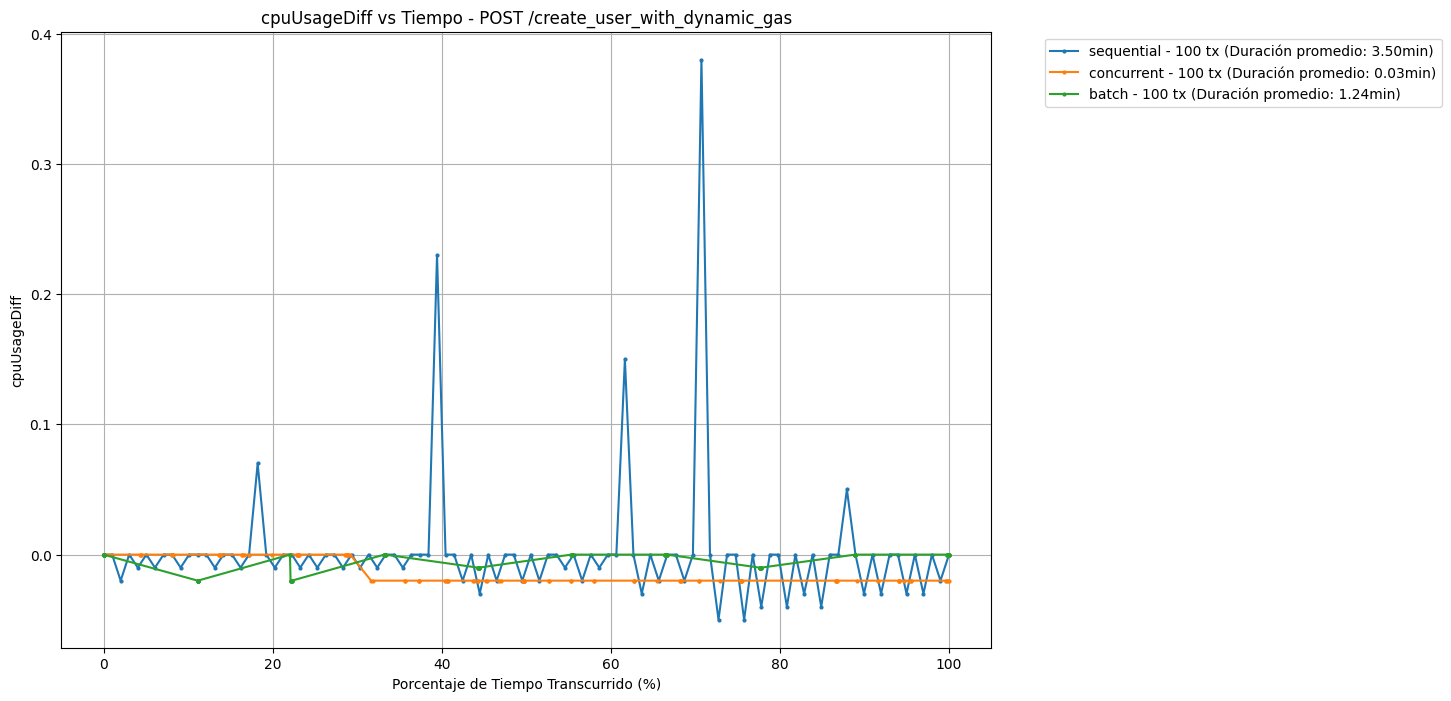
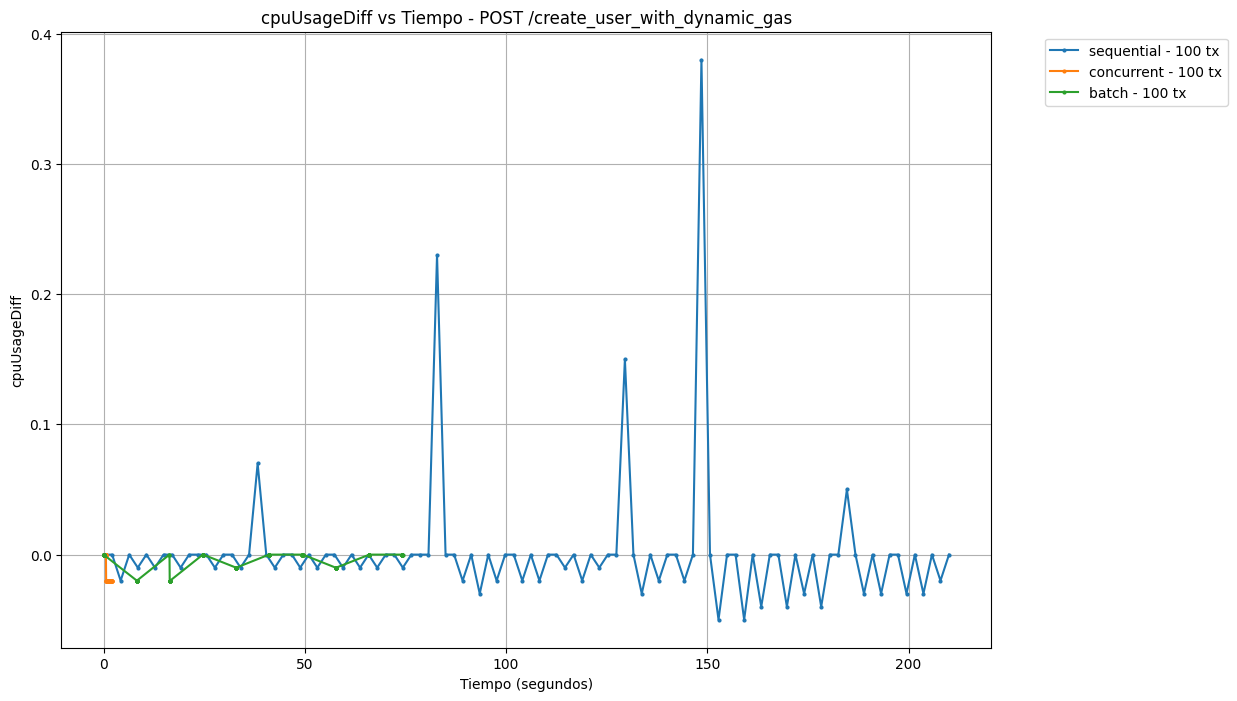
Modifique las etiquetas

diff --git a/API/graphs/graph_maker.py b/API/graphs/graph_maker.py
@@ -190,60 +190,19 @@ def plot_metric_vs_time(data, metric, title, route):
 
     # Plotear cada tipo de test
     for (test_type, total_tx), entries in test_groups.items():
-        # Organizar por grupos para calcular duraciones máximas
-        group_entries = {}
-        max_durations = []
-        
+        # Obtener los timestamps en segundos desde el inicio
+        all_times = []
+        all_metrics = []
         for entry in entries:
-            group_id = entry['groupID']
-            if group_id not in group_entries:
-                group_entries[group_id] = []
-            group_entries[group_id].append(entry)
+            time_seconds = (entry['timestamp'] - entries[0]['timestamp']).total_seconds()
+            all_times.append(time_seconds)
+            all_metrics.append(float(entry[metric]) if entry[metric] else 0.0)
         
-        # Calcular duración máxima para cada grupo
-        for group_data in group_entries.values():
-            if group_data:
-                group_data.sort(key=lambda x: x['timestamp'])
-                start_time = group_data[0]['timestamp']
-                end_time = group_data[-1]['timestamp']
-                duration = (end_time - start_time).total_seconds() / 60  # en minutos
-                max_durations.append(duration)
-        
-        # Calcular duración promedio para este tipo de test
-        avg_duration = mean(max_durations) if max_durations else 1
-        print(f"Duración promedio para {test_type}: {avg_duration:.2f} minutos")
-        
-        # Evitar división por cero
-        if avg_duration == 0:
-            print(f"Advertencia: Duración promedio es cero para {test_type}. Saltando este grupo.")
-            continue  # O establecer avg_duration = 1 para evitar división por cero
-        
-        # Recolectar todos los puntos normalizados
-        all_points = []
-        
-        # Procesar cada grupo y normalizar sus tiempos
-        for group_data in group_entries.values():
-            if group_data:
-                group_data.sort(key=lambda x: x['timestamp'])
-                start_time = group_data[0]['timestamp']
-                
-                for entry in group_data:
-                    relative_time = (entry['timestamp'] - start_time).total_seconds() / 60
-                    # Normalizar el tiempo usando la duración promedio
-                    normalized_time = (relative_time / avg_duration) * 100  # Convertir a porcentaje
-                    if entry[metric] is not None:
-                        all_points.append((normalized_time, float(entry[metric])))
-        
-        if all_points:
-            # Ordenar puntos por tiempo normalizado
-            all_points.sort(key=lambda x: x[0])
-            times, metrics = zip(*all_points)
-            
-            label = f'{test_type} - {total_tx} tx (Duración promedio: {avg_duration:.2f}min)'
-            plt.plot(times, metrics, label=label, marker='o', markersize=2)
-            print(f"Graficando {len(times)} puntos para {label}")
+        label = f'{test_type} - {total_tx} tx'
+        plt.plot(all_times, all_metrics, label=label, marker='o', markersize=2)
+        print(f"Graficando {len(all_times)} puntos para {label}")
 
-    plt.xlabel('Porcentaje de Tiempo Transcurrido (%)')
+    plt.xlabel('Tiempo (segundos)')  # Cambiado a 'Tiempo (segundos)'
     plt.ylabel(metric)
     plt.title(f"{title} - {route}")
     plt.legend(bbox_to_anchor=(1.05, 1), loc='upper left')
@@ -263,66 +222,77 @@ def plot_metric_vs_transaction(data, metric, title, route):
     if not data:
         print(f"No hay datos para graficar {metric}")
         return
-
+        
     plt.figure(figsize=(12, 8))
-
-    # Filtrar datos válidos y asegurar que las solicitudes GET tienen costo 0
-    valid_data = []
-    for entry in data:
-        if isinstance(entry, dict):
-            if entry.get(metric) is not None and entry.get('requestNumber') is not None:
-                if entry['method'] == 'GET' and metric == 'transactionCost':
-                    entry[metric] = 0.0
-                valid_data.append(entry)
-        else:
-            print(f"Entrada inválida encontrada (no es un diccionario): {entry}")
-
-    if not valid_data:
-        print(f"No se encontraron valores válidos para la métrica {metric}")
+    
+    if not any(metric in entry for entry in data):
+        print(f"La métrica {metric} no existe en los datos")
         return
+        
+    # Agrupar por tipo de prueba y número total de transacciones
+    test_groups = {}
+    for entry in data:
+        key = (entry['testType'], entry['totalTransactions'])
+        if key not in test_groups:
+            test_groups[key] = []
+        test_groups[key].append(entry)
 
-    # Agrupar datos por 'testType'
-    test_types = set(entry['testType'] for entry in valid_data)
-    for test_type in test_types:
-        # Filtrar datos para el tipo de prueba actual
-        type_data = [entry for entry in valid_data if entry['testType'] == test_type]
+    # Plotear cada tipo de test
+    for (test_type, total_tx), entries in test_groups.items():
+        # Obtener los requestNumbers y las métricas correspondientes
+        request_numbers = [entry['requestNumber'] for entry in entries]
+        metric_values = [float(entry[metric]) if entry[metric] else 0.0 for entry in entries]
+        
+        label = f'{test_type} - {total_tx} tx'
+        plt.plot(request_numbers, metric_values, label=label, marker='o', markersize=2)
+        print(f"Graficando {len(request_numbers)} puntos para {label}")
 
-        # Ordenar los datos por número de transacción
-        type_data.sort(key=lambda x: int(x['requestNumber']))
-        transaction_numbers = [int(entry['requestNumber']) for entry in type_data]
-        metric_values = [float(entry[metric]) for entry in type_data]
-
-        # Graficar los datos para este tipo de prueba
-        plt.plot(transaction_numbers, metric_values, label=test_type, marker='o', markersize=3)
-
-    plt.xlabel('Número de Transacción')
+    plt.xlabel('Request Number')  # Cambiado a 'Request Number'
     plt.ylabel(metric)
     plt.title(f"{title} - {route}")
-    plt.legend()
+    plt.legend(bbox_to_anchor=(1.05, 1), loc='upper left')
     plt.grid(True)
-
+    
     # Sanitizar el nombre de la ruta para usarlo en el nombre del archivo
     sanitized_route = sanitize_filename(route)
     try:
-        plt.savefig(f'{metric}_vs_transaction_{sanitized_route}.png', bbox_inches='tight')
+        plt.savefig(f'{metric}_vs_transaction_{sanitized_route}.png', bbox_inches='tight')  # Cambiado el nombre del archivo
         print(f"Gráfica guardada: {metric}_vs_transaction_{sanitized_route}.png")
     except Exception as e:
         print(f"Error guardando la gráfica {metric}: {str(e)}")
-
+    
     plt.close()
 
 def plot_transaction_cost_vs_length(data):
-    plt.figure(figsize=(20, 15))  # Aumentar el tamaño de la figura
-    df = pd.DataFrame(data)
-    df['parametersLength'] = pd.to_numeric(df['parametersLength'])
-    df['transactionCost'] = pd.to_numeric(df['transactionCost'])
-    df.boxplot(column='transactionCost', by='parametersLength')
-    plt.xlabel('Longitud de Parámetros')
-    plt.ylabel('Costo de Transacción')
-    plt.title('Costo de Transacción vs Longitud de Parámetros', fontsize=15)
-    plt.suptitle('')
-    plt.tight_layout()  # Ajustar automáticamente los márgenes
-    plt.savefig('transaction_cost_vs_length.png')
+    # Remover la gráfica y generar una tabla con media, mediana y moda
+    costs = [entry['transactionCost'] for entry in data if entry['transactionCost'] is not None]
+    lengths = [entry['parametersLength'] for entry in data if entry['parametersLength'] is not None]
+    
+    if not costs or not lengths:
+        print("No hay datos suficientes para generar la tabla de costo de transacción por longitud.")
+        return
+    
+    # Calcular estadísticas
+    cost_mean = mean(costs)
+    cost_median = median(costs)
+    cost_mode = Counter(costs).most_common(1)[0][0]
+    
+    length_mean = mean(lengths)
+    length_median = median(lengths)
+    length_mode = Counter(lengths).most_common(1)[0][0]
+    
+    # Crear la tabla
+    table = {
+        'Métrica': ['Costo de Transacción', 'Longitud de Parámetros'],
+        'Media': [cost_mean, length_mean],
+        'Mediana': [cost_median, length_median],
+        'Moda': [cost_mode, length_mode]
+    }
+    
+    df_table = pd.DataFrame(table)
+    print("Tabla de Costo de Transacción por Longitud:")
+    print(df_table)
+    df_table.to_csv('transaction_cost_per_length_stats.csv', index=False)
 
 def calculate_statistics(data, metric):
     values = [entry[metric] for entry in data]
@@ -334,12 +304,20 @@ def calculate_statistics(data, metric):
 
 def generate_statistics_table(data, metrics):
     stats_table = []
-    for method in set(entry['method'] for entry in data):
-        for test_type in set(entry['testType'] for entry in data):
-            subset = [entry for entry in data if entry['method'] == method and entry['testType'] == test_type]
-            stats = {'Method': method, 'Test Type': test_type}
+    for route in set(entry['route'] for entry in data):
+        for test_type in set(entry['testType'] for entry in data if entry['route'] == route):
+            subset = [entry for entry in data if entry['route'] == route and entry['testType'] == test_type]
+            stats = {'Route': route, 'Test Type': test_type}
             for metric in metrics:
-                metric_stats = calculate_statistics(subset, metric)
+                metric_values = [entry[metric] for entry in subset if entry[metric] is not None]
+                if metric_values:
+                    metric_stats = {
+                        'mean': mean(metric_values),
+                        'median': median(metric_values),
+                        'mode': Counter(metric_values).most_common(1)[0][0]
+                    }
+                else:
+                    metric_stats = {'mean': 'N/A', 'median': 'N/A', 'mode': 'N/A'}
                 stats[f'{metric}_mean'] = metric_stats['mean']
                 stats[f'{metric}_median'] = metric_stats['median']
                 stats[f'{metric}_mode'] = metric_stats['mode']
@@ -382,16 +360,16 @@ def main():
     for route in routes:
         route_data = [entry for entry in parsed_data if entry['route'] == route]
         for metric in metrics:
-            plot_metric_vs_transaction(route_data, metric, f'{metric} vs Número de Transacción', route)  # Cambiado de "Ruta base:" a route_data
+            plot_metric_vs_transaction(route_data, metric, f'{metric} vs Número de Transacción', route)  
             plot_metric_vs_time(route_data, metric, f'{metric} vs Tiempo', route)
     
-    # Gráfico de Costo Transaccional vs Longitud de Parámetros
+    # Generar tabla de Costo Transaccional por Longitud de Parámetros
     plot_transaction_cost_vs_length(parsed_data)
     
     # Velocidad de Transacción
     transaction_speed = calculate_transaction_speed(parsed_data, interval='60s')
     
-    # Tabla de estadísticas (Media, Moda, Mediana)
+    # Tabla de estadísticas (Media, Moda, Mediana) basada en ruta
     metrics = ['cpuUsageDiff', 'ramUsageDiff', 'transactionCost', 'latency']
     stats_table = generate_statistics_table(parsed_data, metrics)
     
